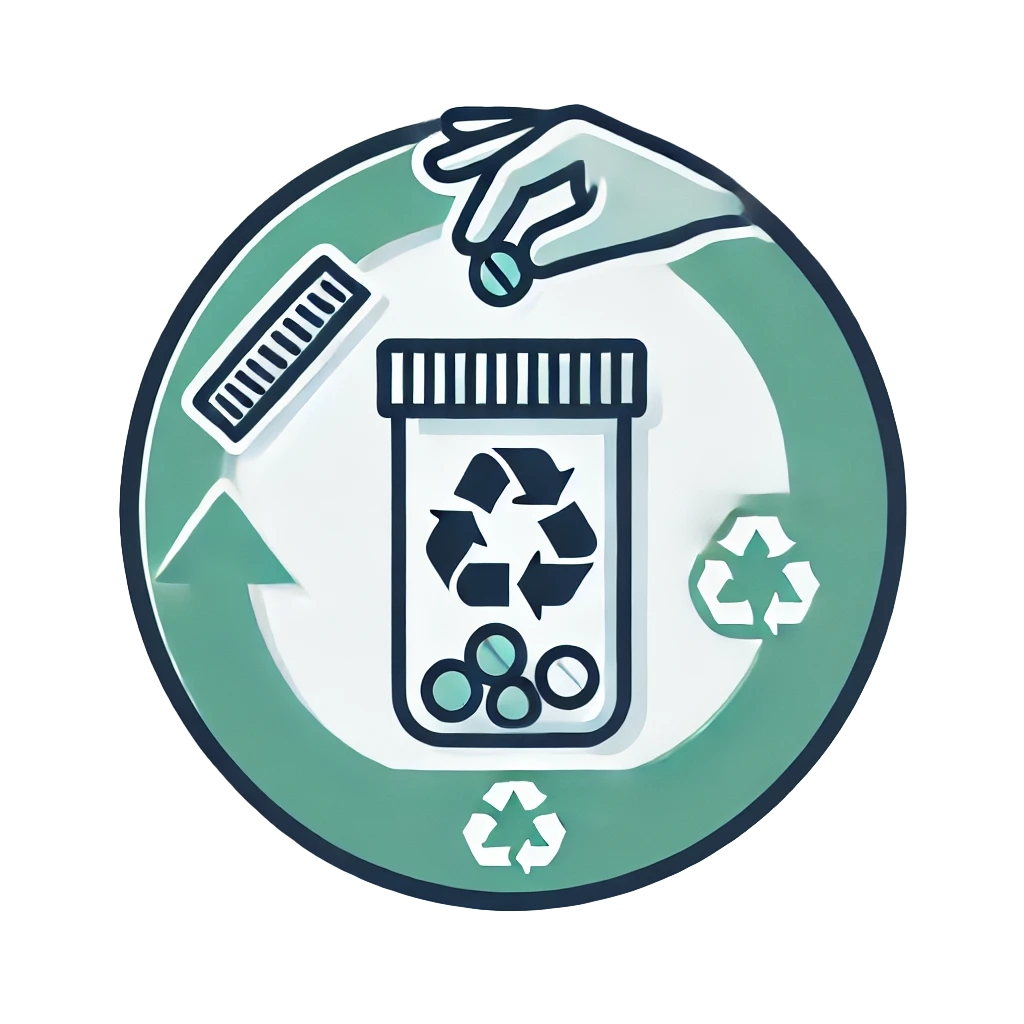
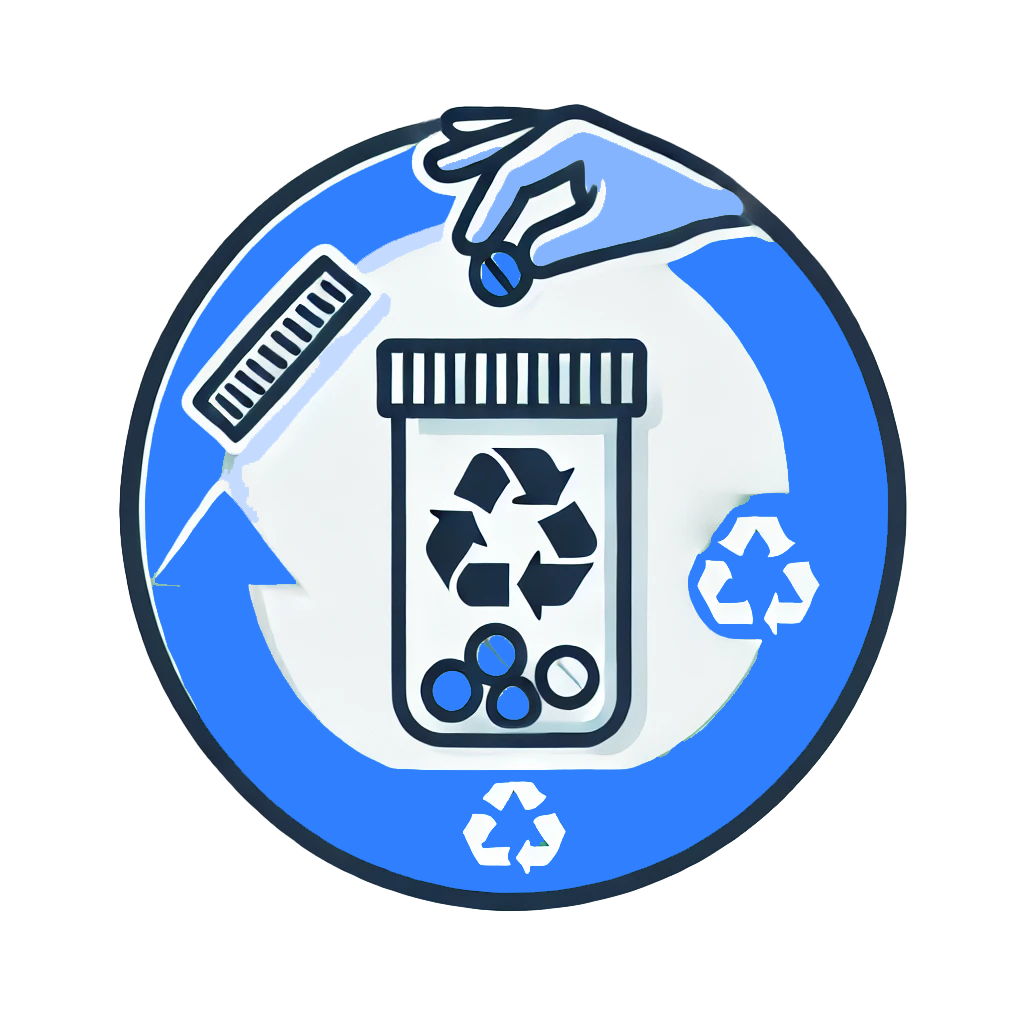
변경 14:31

Changed region(s): [[0.125, 0.125, 0.875, 0.875], [0.4062, 0.625, 0.5312, 0.7188], [0.25, 0.4062, 0.2812, 0.4375]]

diff --git a/bluescreen/src/main/resources/static/css/main.css b/bluescreen/src/main/resources/static/css/main.css
@@ -5,7 +5,7 @@
   --white-blue: #1D1D31;
   --white: #fff;
   --gray: #8390a2;
-  --theme: #5ca08f;
+  --theme: #3f80ea;
 }
 
 * {

diff --git a/bluescreen/src/main/java/com/java/controller/DictController.java b/bluescreen/src/main/java/com/java/controller/DictController.java
@@ -23,20 +23,24 @@ public class DictController {
 	@Autowired MedicineService mservice;
 	
 	@RequestMapping("/dict")
-	public String dict(Page pageDto, Model model, String category, String textBox) {
+	public String dict(Page pageDto, Model model, String category, String textBox, String categoryDetail) {
+		System.out.println(categoryDetail);
+		System.out.println(textBox);
 		if(category != null) {
 			if(category.equals("disease")) {
-				HashMap<String, Object> map = dservice.selectAllDisease(pageDto, textBox);
+				HashMap<String, Object> map = dservice.selectAllDisease(pageDto, textBox, categoryDetail);
 				model.addAttribute("list", map.get("list"));
 				model.addAttribute("category", category);
 				model.addAttribute("pageDto",pageDto);
 				model.addAttribute("textBox",textBox);
+				model.addAttribute("categoryDetail",categoryDetail);
 			}else if(category.equals("medicine")) {
-				HashMap<String, Object> map = mservice.selectAllMedicine(pageDto, textBox);
+				HashMap<String, Object> map = mservice.selectAllMedicine(pageDto, textBox, categoryDetail);
 				model.addAttribute("list", map.get("list"));
 				model.addAttribute("category", category);
 				model.addAttribute("pageDto",pageDto);
 				model.addAttribute("textBox",textBox);
+				model.addAttribute("categoryDetail",categoryDetail);
 			}
 		}
 		return "dictionary";

diff --git a/bluescreen/src/main/java/com/java/service/DiseaseServiceImpl.java b/bluescreen/src/main/java/com/java/service/DiseaseServiceImpl.java
@@ -21,10 +21,10 @@ public class DiseaseServiceImpl implements DiseaseService {
 	MedicineMapper mMapper;
 
 	@Override
-	public HashMap<String, Object> selectAllDisease(Page pageDto, String textBox) {
-		pageDto = pageMethodDisease(pageDto, textBox);
+	public HashMap<String, Object> selectAllDisease(Page pageDto, String textBox, String categoryDetail) {
+		pageDto = pageMethodDisease(pageDto, textBox, categoryDetail);
 		HashMap<String, Object> map = new HashMap<>();
-		ArrayList<Disease> list = dMapper.selectAll(pageDto, textBox);
+		ArrayList<Disease> list = dMapper.selectAll(pageDto, textBox, categoryDetail);
 		map.put("pageDto", pageDto);
 		map.put("list", list);
 		return map;
@@ -32,9 +32,9 @@ public class DiseaseServiceImpl implements DiseaseService {
 
 	
 
-	private Page pageMethodDisease(Page pageDto, String textBox) {
+	private Page pageMethodDisease(Page pageDto, String textBox, String categoryDetail) {
 		// 전체 게시글 수 저장
-		pageDto.setListCount(dMapper.selectListCount(textBox));
+		pageDto.setListCount(dMapper.selectListCount(textBox, categoryDetail));
 		// 최대 넘버링 페이지
 		pageDto.setMaxPage((int) Math.ceil((double) pageDto.getListCount() / 20));
 		// 시작 넘버링페이지

diff --git a/bluescreen/src/main/java/com/java/service/MedicineServiceImpl.java b/bluescreen/src/main/java/com/java/service/MedicineServiceImpl.java
@@ -22,18 +22,18 @@ public class MedicineServiceImpl implements MedicineService {
 	}
 	
 	@Override
-	public HashMap<String, Object> selectAllMedicine(Page pageDto, String textBox) {
-		pageDto = pageMethodMedicine(pageDto, textBox);
+	public HashMap<String, Object> selectAllMedicine(Page pageDto, String textBox, String categoryDetail) {
+		pageDto = pageMethodMedicine(pageDto, textBox, categoryDetail);
 		HashMap<String, Object> map = new HashMap<>();
-		ArrayList<Medicine> list = mMapper.selectAll(pageDto, textBox);
+		ArrayList<Medicine> list = mMapper.selectAll(pageDto, textBox, categoryDetail);
 		map.put("pageDto", pageDto);
 		map.put("list", list);
 		return map;
 	}
 	
-	private Page pageMethodMedicine(Page pageDto, String textBox) {
+	private Page pageMethodMedicine(Page pageDto, String textBox, String categoryDetail) {
 		// 전체 게시글 수 저장
-		pageDto.setListCount(mMapper.selectListCount(textBox));
+		pageDto.setListCount(mMapper.selectListCount(textBox, categoryDetail));
 		// 최대 넘버링 페이지
 		pageDto.setMaxPage((int) Math.ceil((double) pageDto.getListCount() / 20));
 		// 시작 넘버링페이지

diff --git a/bluescreen/src/main/java/com/java/controller/FController.java b/bluescreen/src/main/java/com/java/controller/FController.java
@@ -27,7 +27,6 @@ public class FController {
 			Elements elements = doc.select("ul[class=type2]").select("li");
 			// System.out.println(elements);
 			ArrayList<Scrap> scraps = new ArrayList<>();
-			System.out.println(elements);
 			for (Element element : elements) {
 				Scrap scrap = new Scrap();
 
@@ -49,7 +48,6 @@ public class FController {
 				}
 			}
 			int number = (int)Math.round(Math.random()*10);
-			System.out.println(scraps.get(number));
 			model.addAttribute("scrap",scraps.get(number));
 
 		} catch (IOException e) {

diff --git a/bluescreen/src/main/java/com/java/mapper/MedicineMapper.java b/bluescreen/src/main/java/com/java/mapper/MedicineMapper.java
@@ -10,9 +10,9 @@ import com.java.dto.Page;
 @Mapper
 public interface MedicineMapper {
 
-	ArrayList<Medicine> selectAll(Page pageDto, String textBox);
+	ArrayList<Medicine> selectAll(Page pageDto, String textBox, String categoryDetail);
 
-	int selectListCount(String textBox);
+	int selectListCount(String textBox, String categoryDetail);
 
 	Medicine selectOneMedicine(int mno);
 

diff --git a/bluescreen/src/main/java/com/java/mapper/DiseaseMapper.java b/bluescreen/src/main/java/com/java/mapper/DiseaseMapper.java
@@ -10,9 +10,9 @@ import com.java.dto.Page;
 @Mapper
 public interface DiseaseMapper {
 
-	int selectListCount(String textBox);
+	int selectListCount(String textBox, String categoryDetail);
 
-	ArrayList<Disease> selectAll(Page pageDto, String textBox);
+	ArrayList<Disease> selectAll(Page pageDto, String textBox, String categoryDetail);
 
 
 }

diff --git a/bluescreen/src/main/java/com/java/service/MedicineService.java b/bluescreen/src/main/java/com/java/service/MedicineService.java
@@ -9,6 +9,6 @@ public interface MedicineService {
 
 	Medicine selectOneMedicine(int mno);
 	
-	HashMap<String, Object> selectAllMedicine(Page pageDto, String textBox);
+	HashMap<String, Object> selectAllMedicine(Page pageDto, String textBox, String categoryDetail);
 
 }

diff --git a/bluescreen/src/main/java/com/java/service/DiseaseService.java b/bluescreen/src/main/java/com/java/service/DiseaseService.java
@@ -7,7 +7,7 @@ import com.java.dto.Page;
 
 public interface DiseaseService {
 
-	HashMap<String, Object> selectAllDisease(Page pageDto, String textBox);
+	HashMap<String, Object> selectAllDisease(Page pageDto, String textBox, String categoryDetail);
 
 	
 
